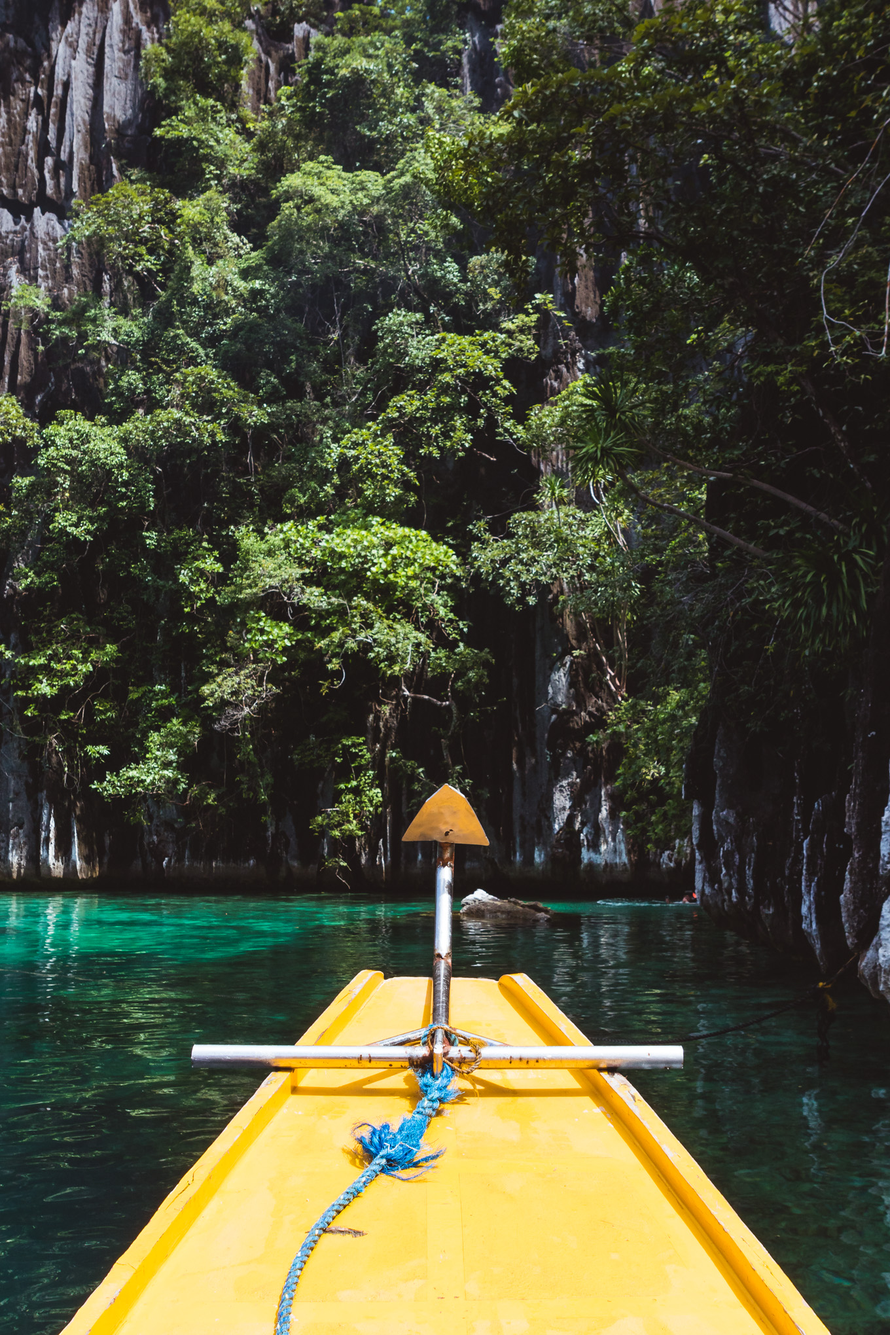
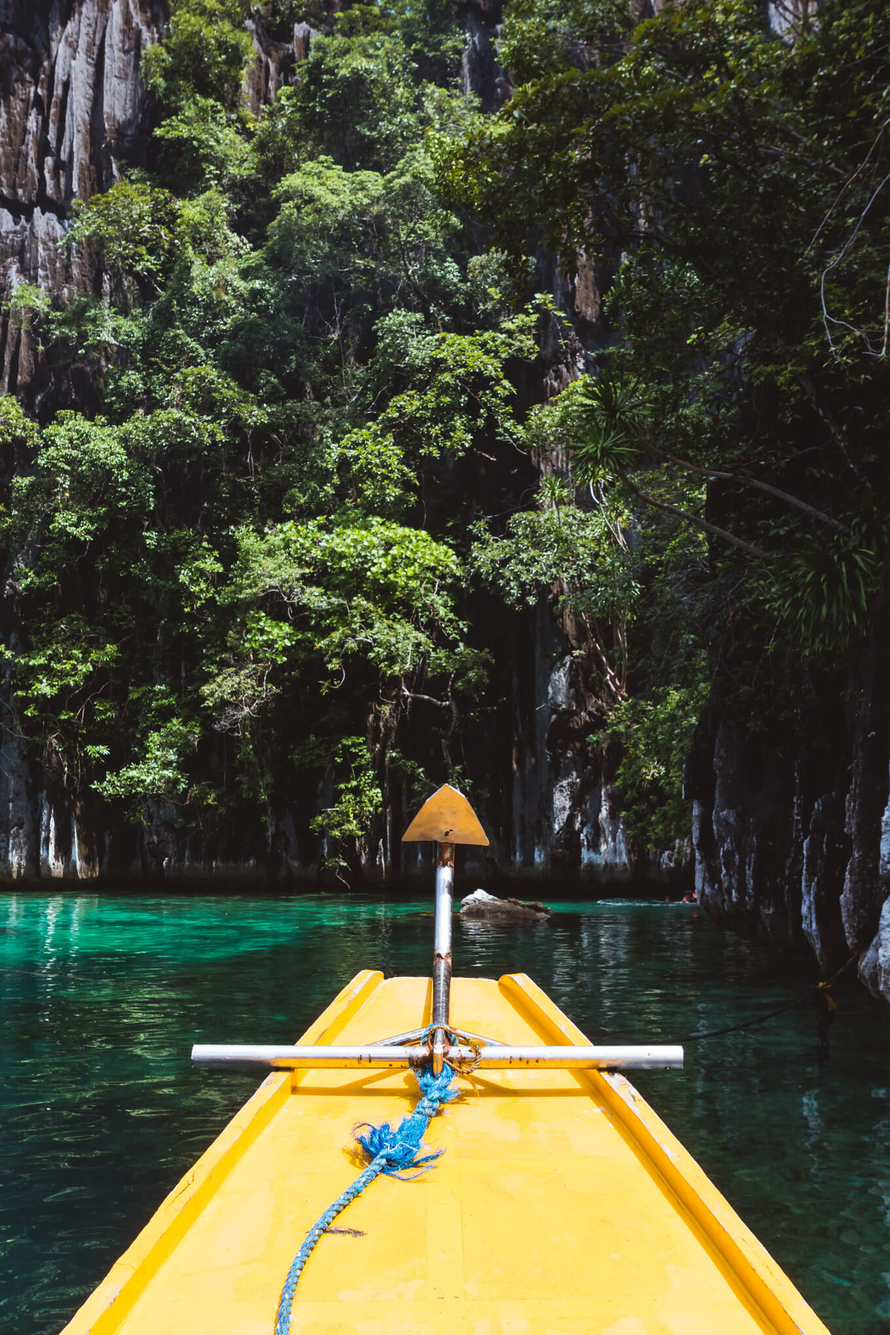
replace: images with compressed ones

Changed region(s): [[0.4015, 0.8029, 0.525, 0.8956]]

diff --git a/css/style.scss b/css/style.scss
@@ -197,6 +197,7 @@ span {
             height: 80%;
             border-radius: 1em;
             background-color: rgba(0, 0, 0, .1);
+            margin: 0 2em;
 
             ul {
                 list-style-type: none;

diff --git a/css/style.css b/css/style.css
@@ -241,6 +241,7 @@ span {
   height: 80%;
   border-radius: 1em;
   background-color: rgba(0, 0, 0, 0.1);
+  margin: 0 2em;
 }
 
 .container .gallery-container .carousel-container ul {
